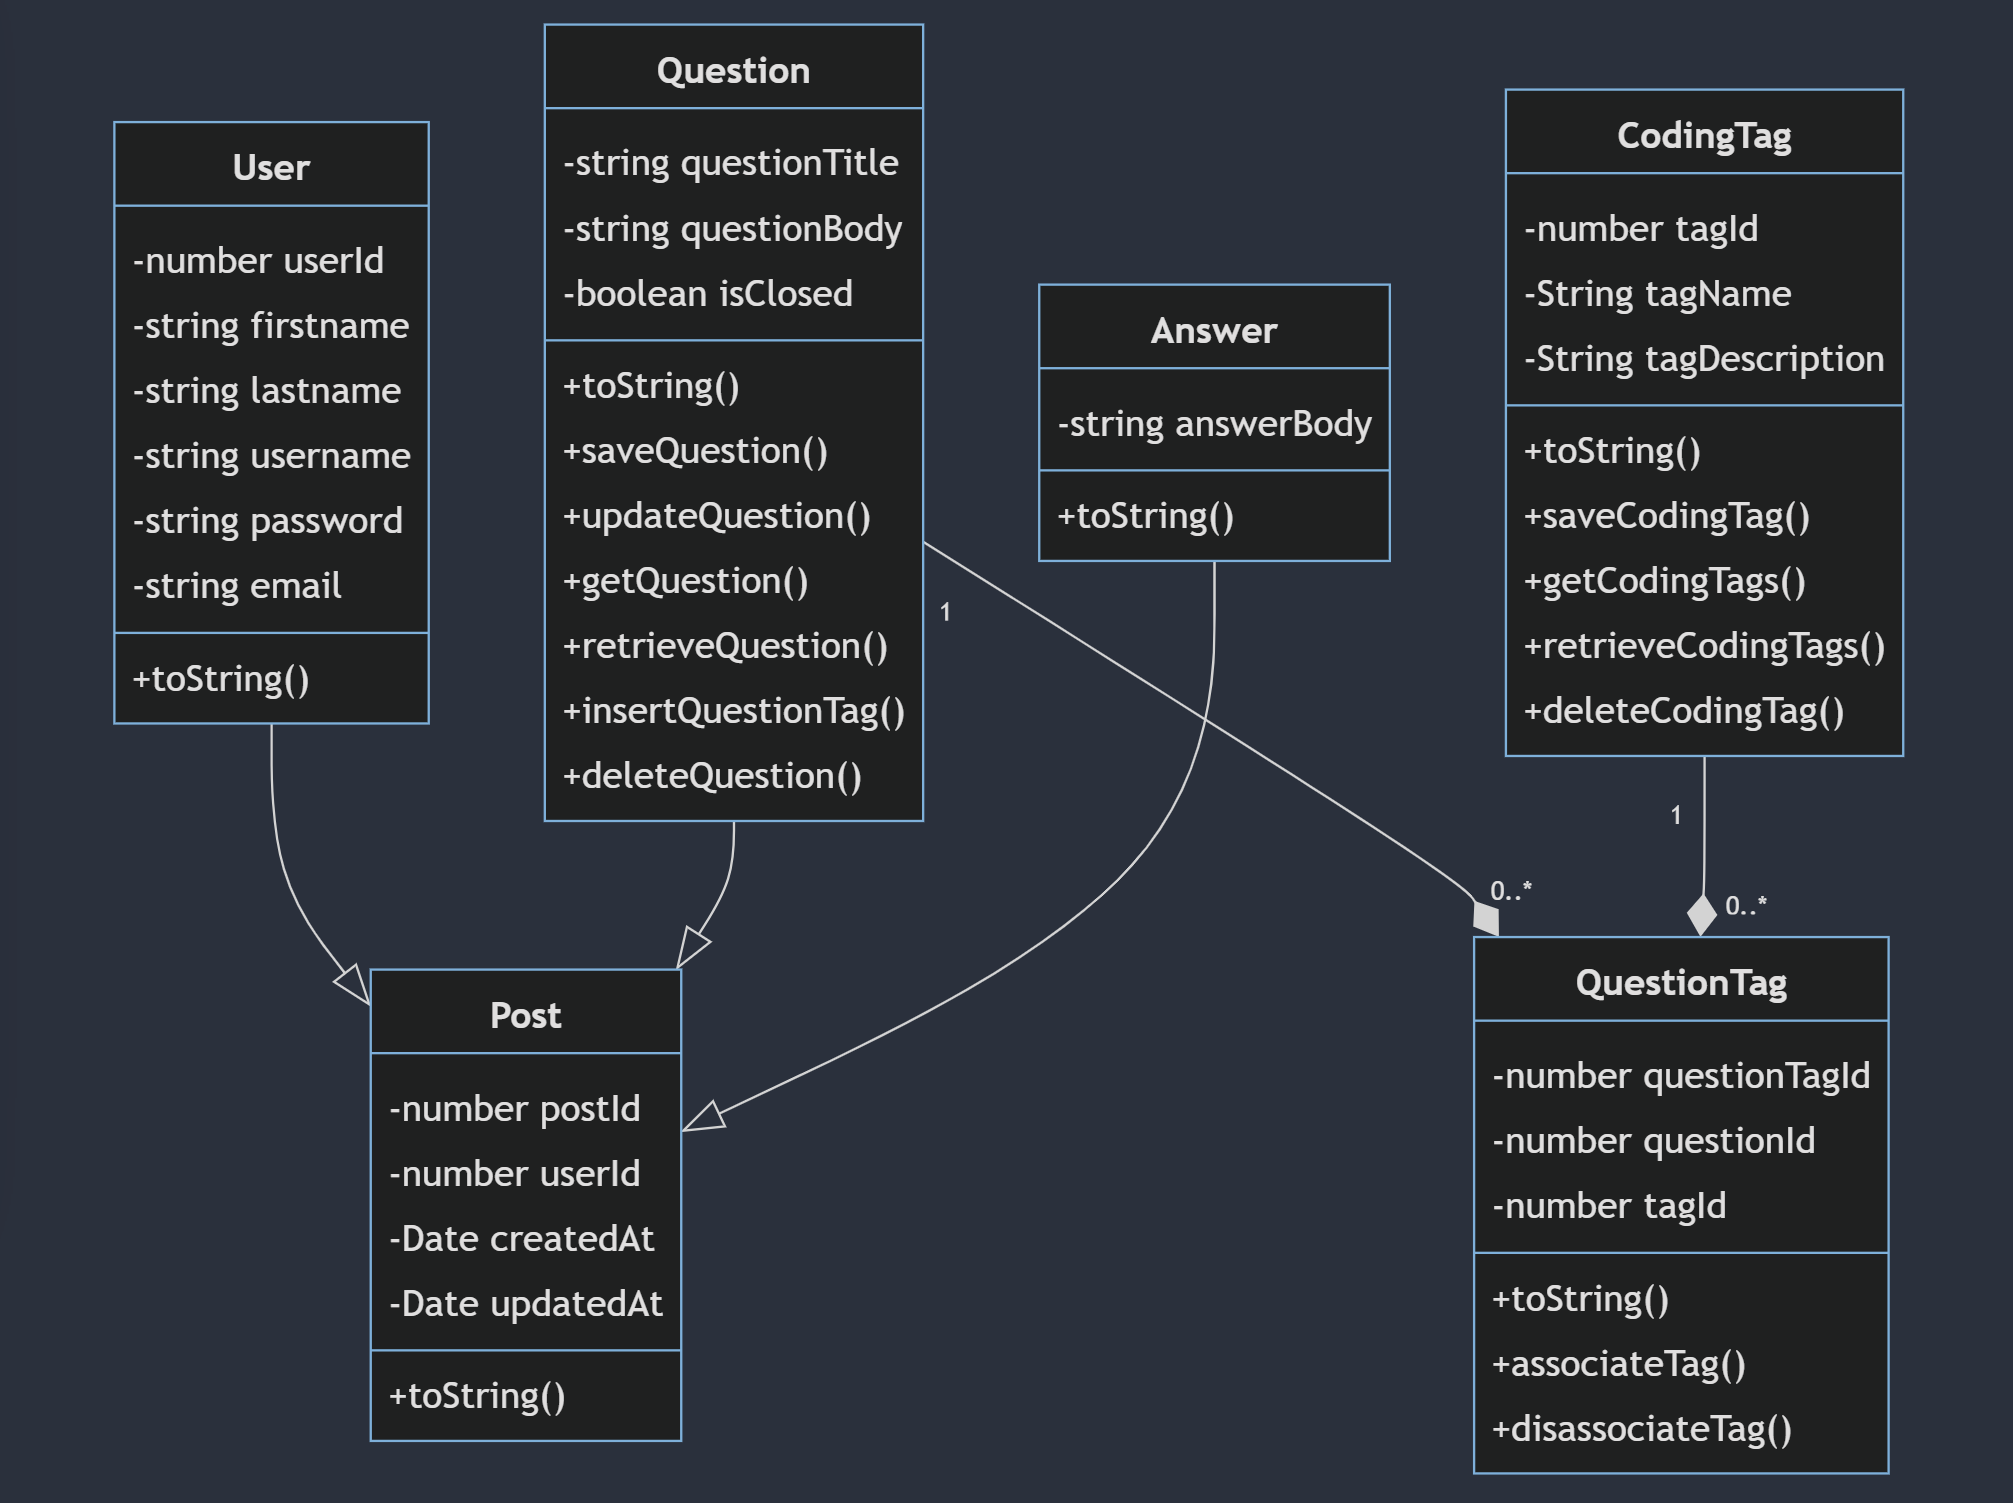
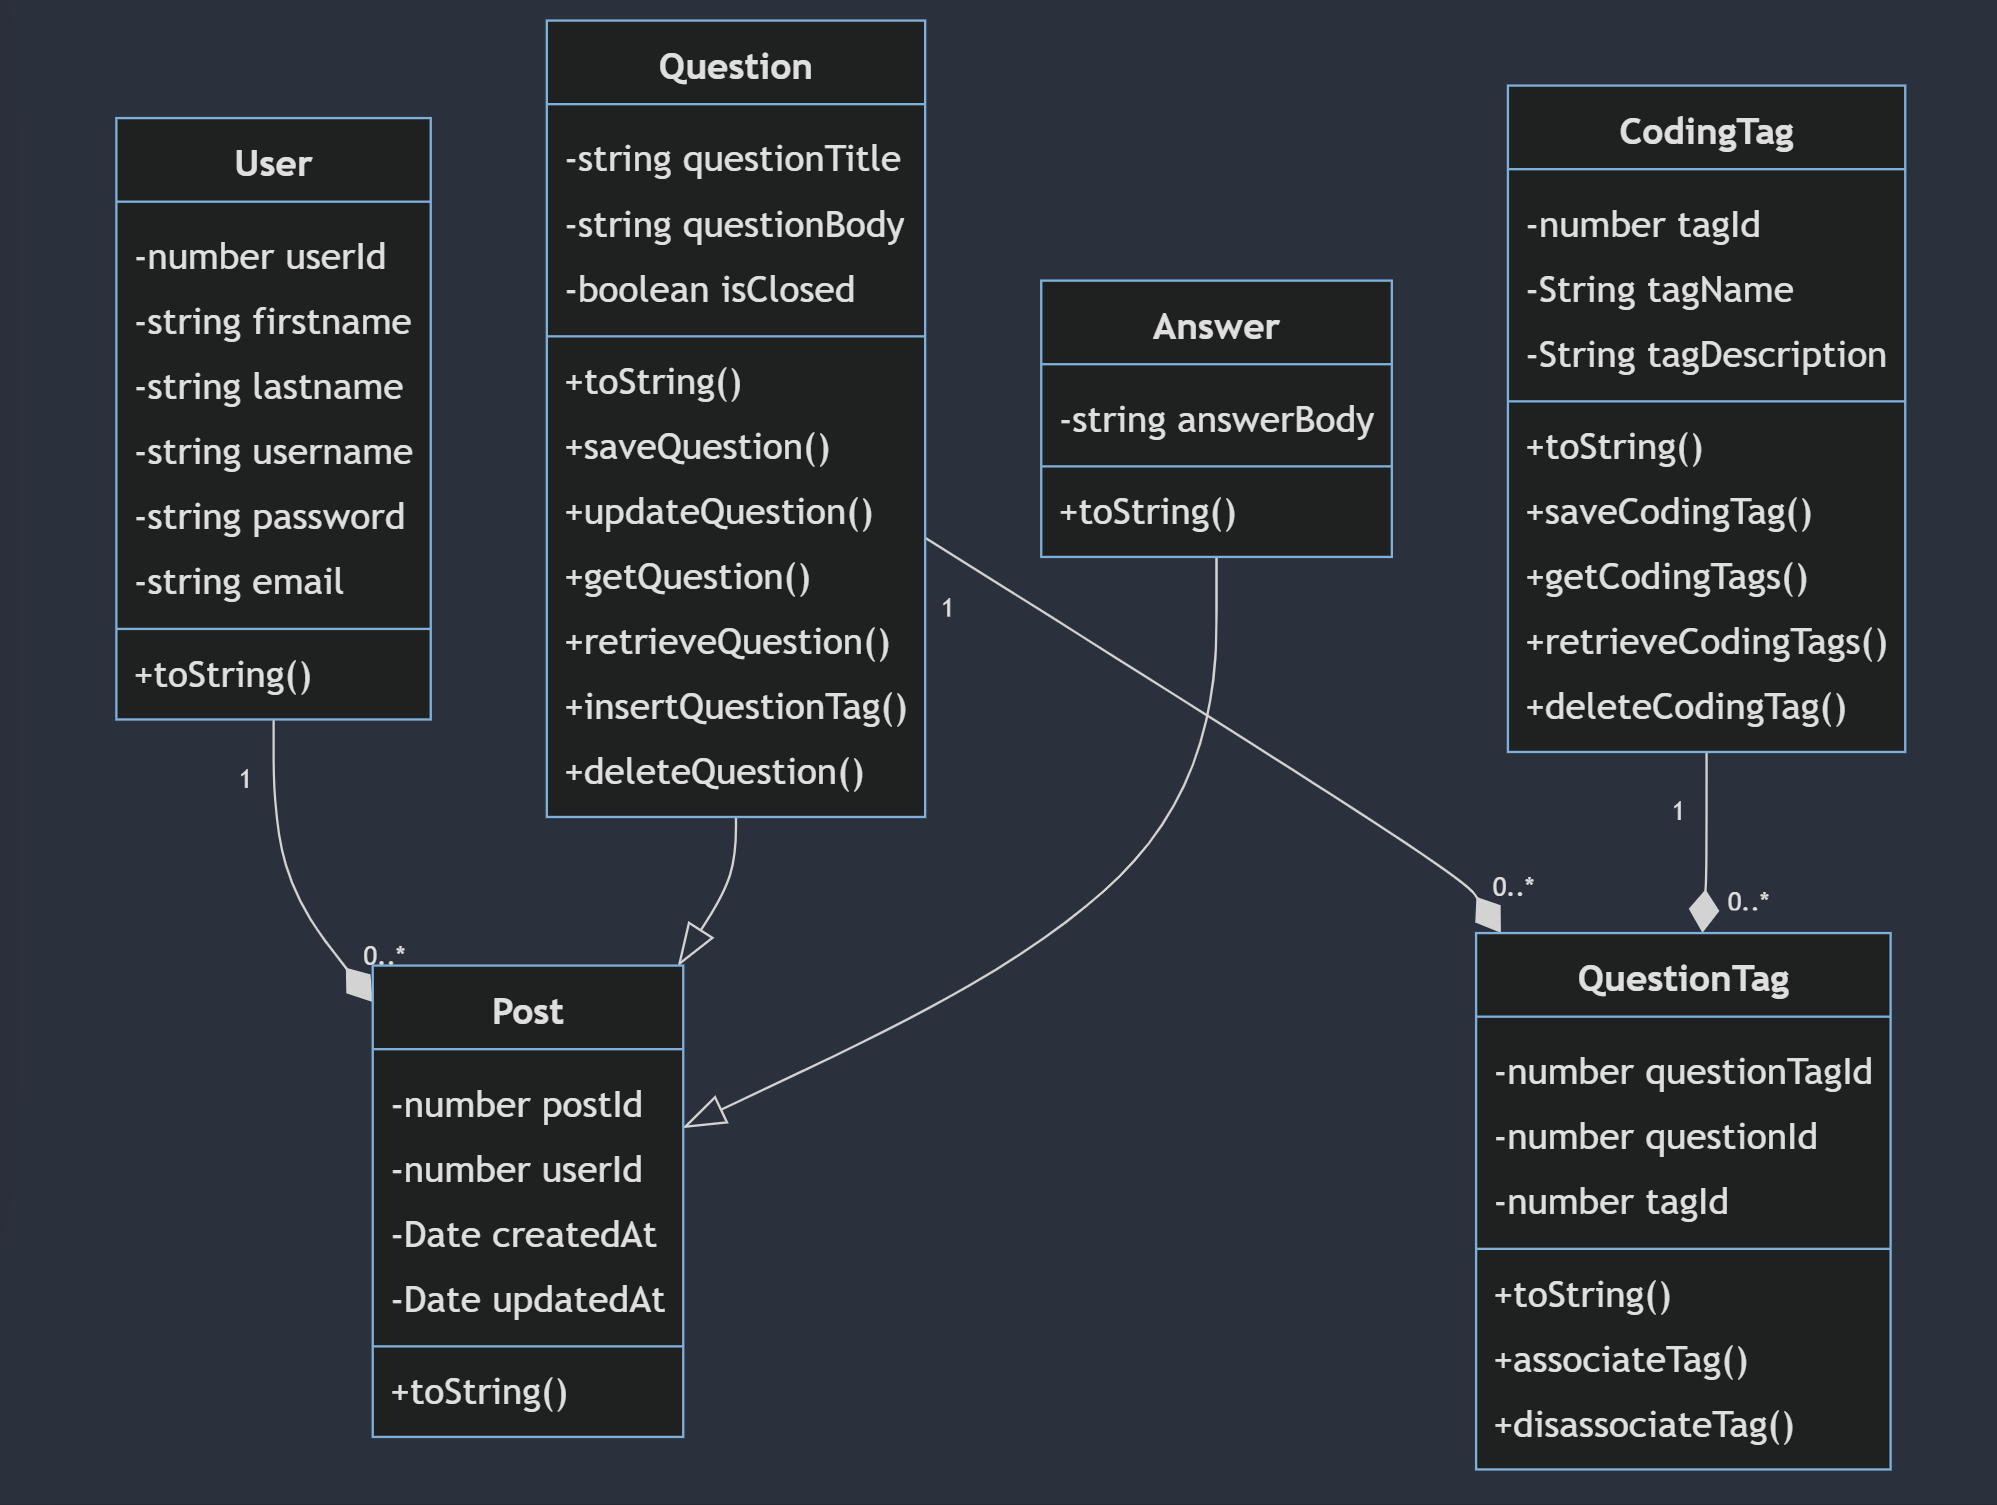
updated class diagram

diff --git a/docs/diagrams/flowchart.md b/docs/diagrams/flowchart.md
@@ -61,7 +61,7 @@ class User {
         +disassociateTag()
     }
 
-    User --|> Post
+    User "1" --* "0..*" Post
     Question --|> Post
     Answer --|> Post
     Question "1" --* "0..*" QuestionTag
